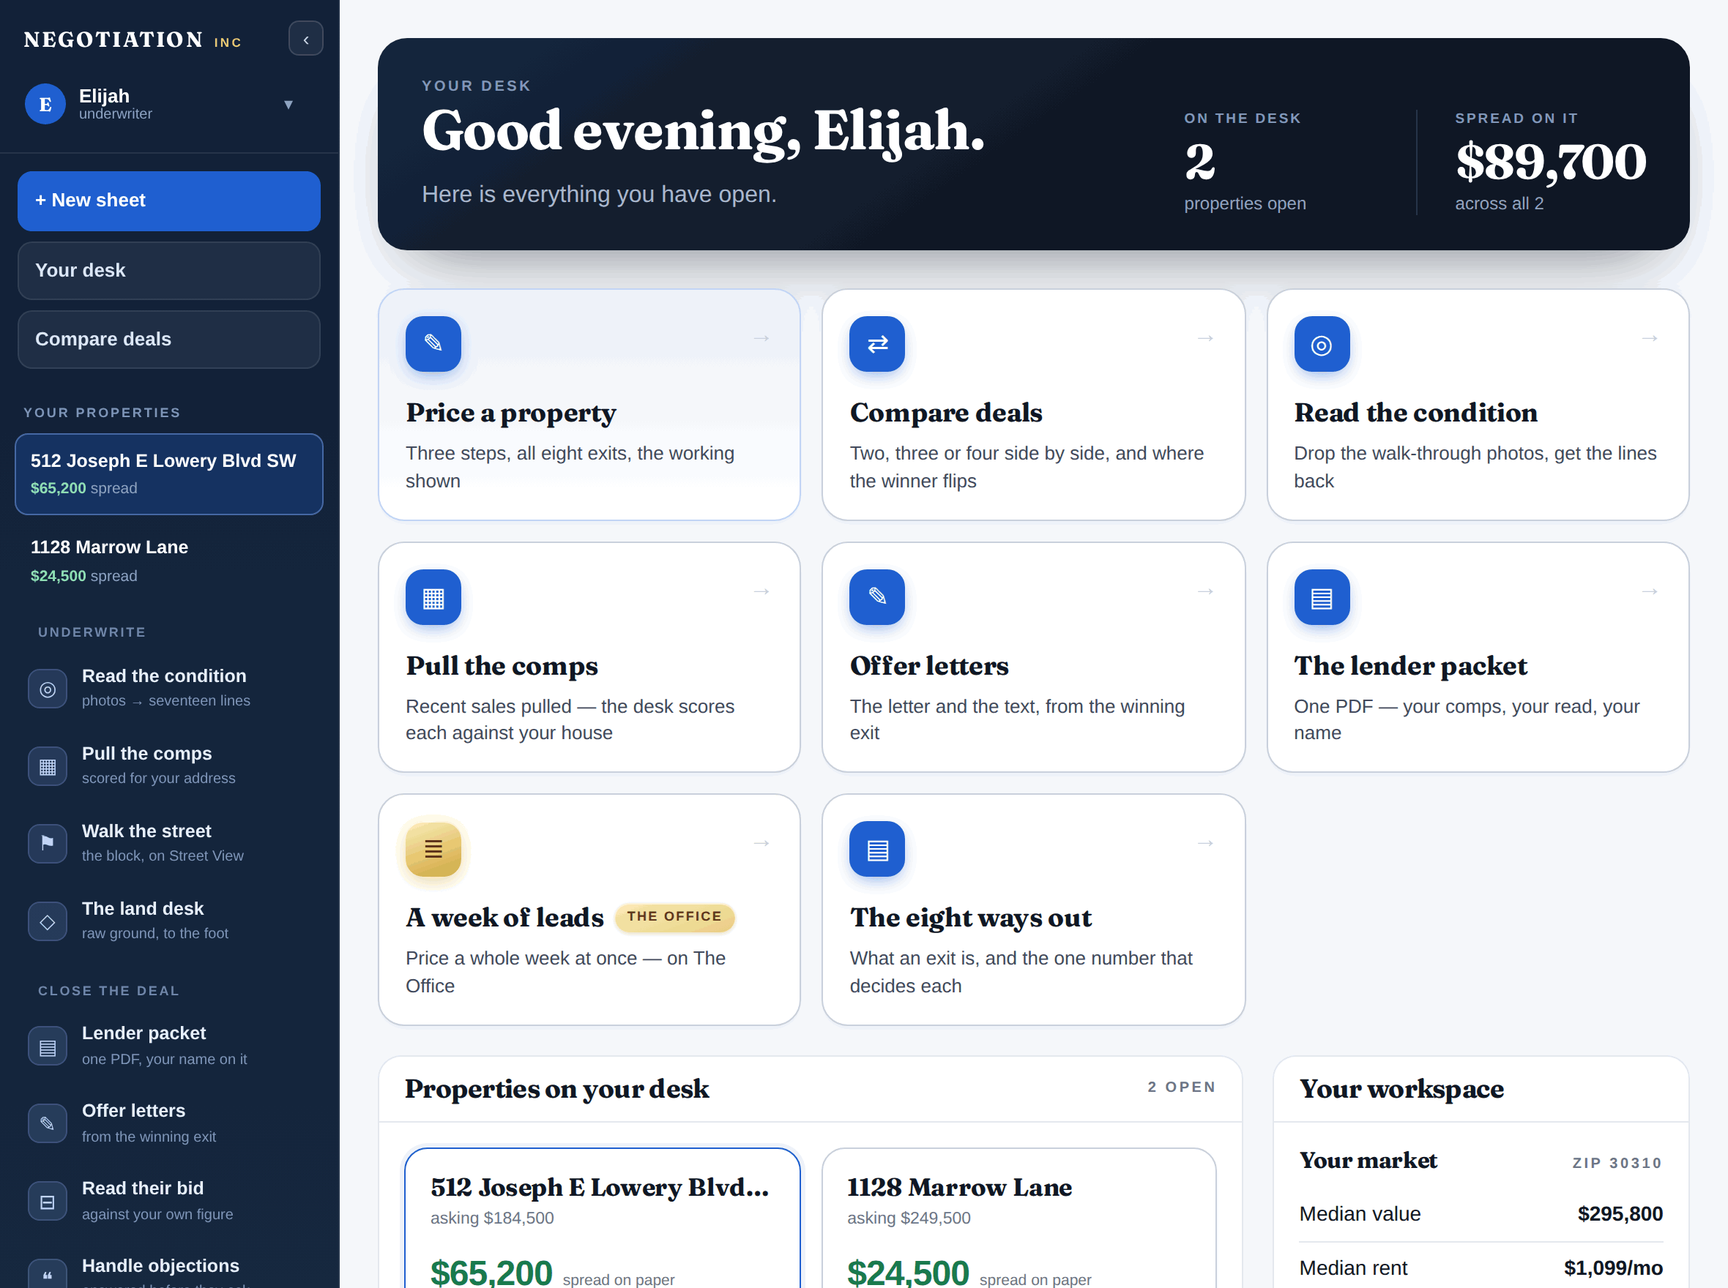
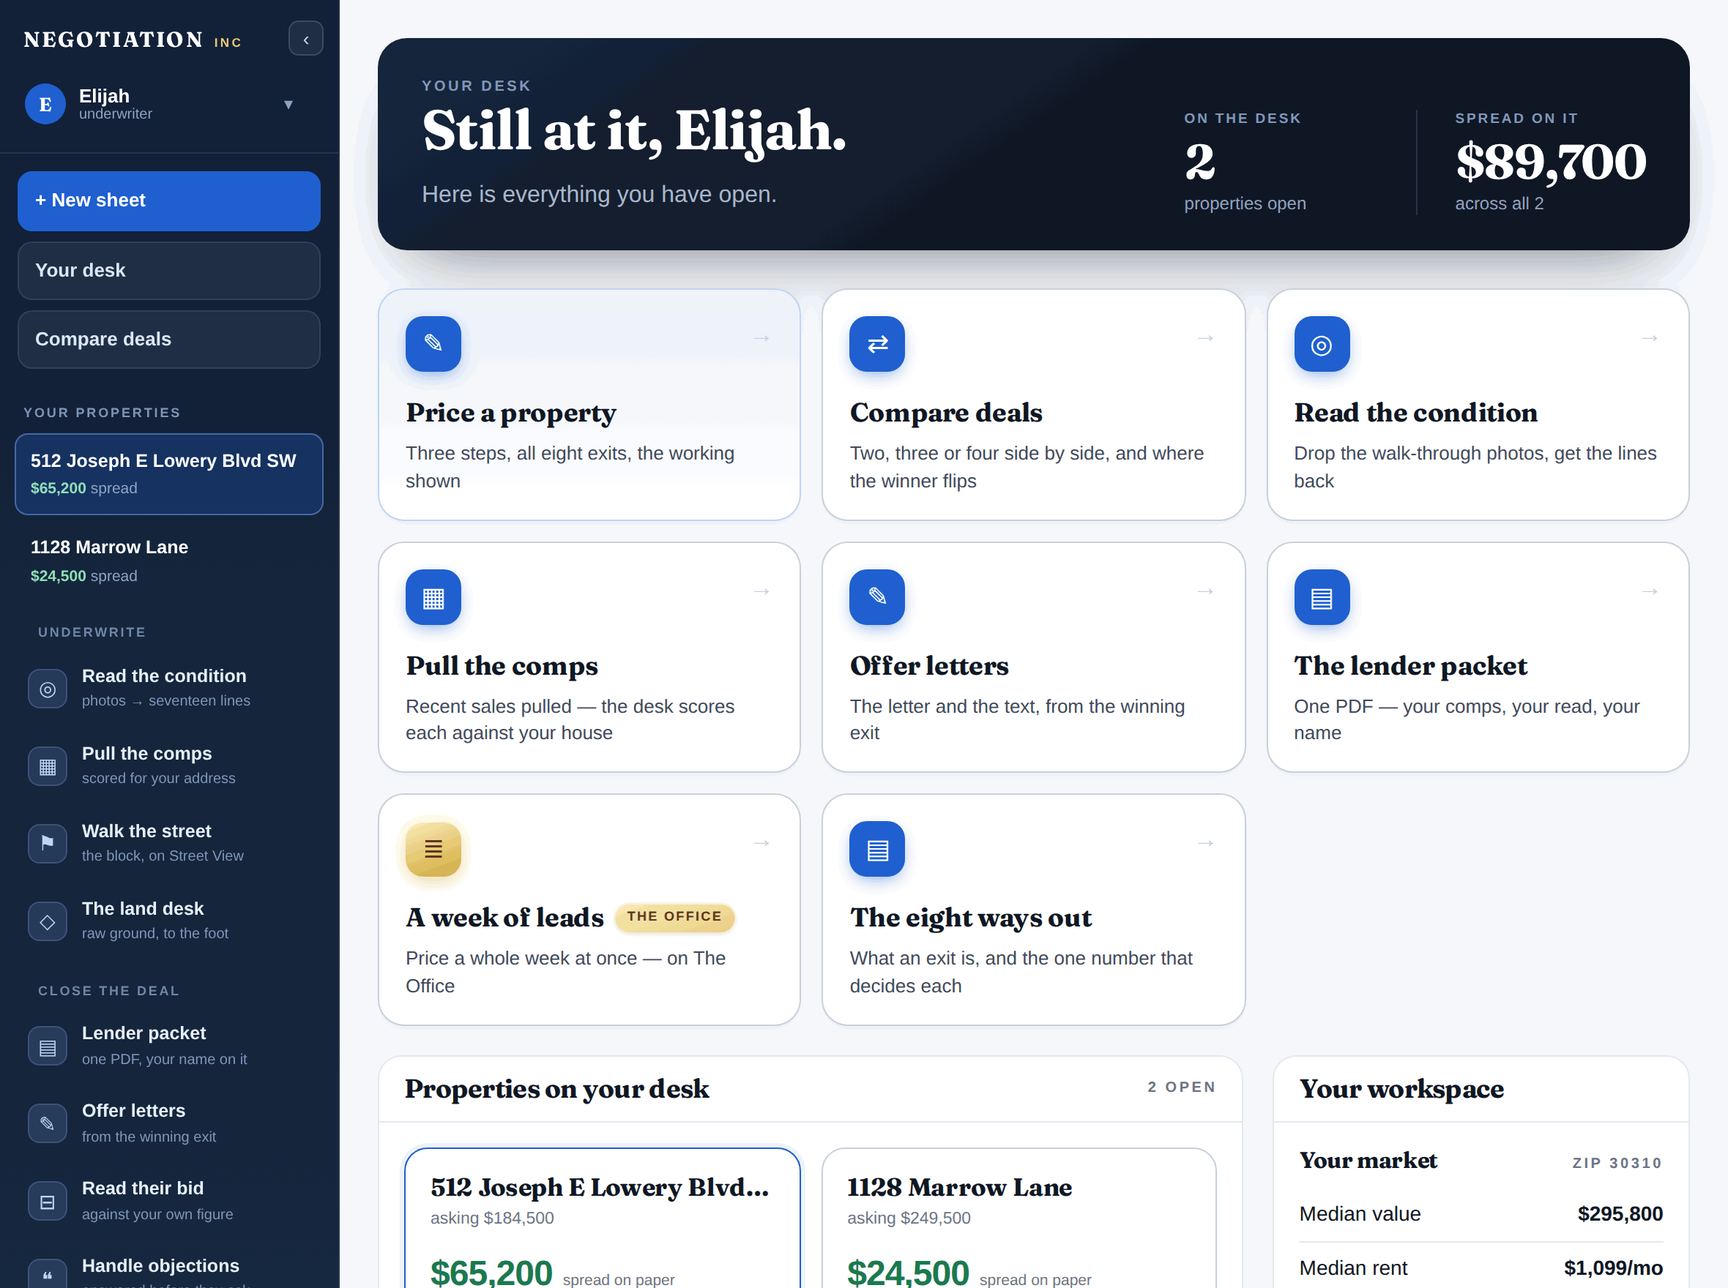
batch 78: three bars become one instrument
The Claude Design pass on the Daily Street's offer step, implemented. The
screen told the same fact three times in three grammars — a stacked
composition bar, a headline range, and a slider track with four unlabelled
colour zones and no key — and the sentence carrying the entire lesson ("you
have not checked what it needs") was set as the smallest text in the group.

ONE AXIS NOW, where every mark is a price and every distance is money. The
band is what the sales say the house is worth TO YOU; its WIDTH is the repair
bill you have not checked; and the button that narrows it sits inside the
readout, so the lesson is the control rather than a caveat. Both band edges
name the sale that made them — the two comps disagree, and now you can see
which said what. The walk-away line is not drawn at all until a look has been
spent, because until then you do not have one.

NOT ONE FIGURE CHANGED. Every number the instrument draws is the same
arithmetic the three bars ran — the comp spread, the repair band, the
borrow-adjusted break-even. This is a presentation replacement, and the
engine was not touched.

THE COLOUR LAW REACHES THE BAR. The keep bar is green only when the figure
has been EARNED — repairs walked and the outcome positive — red only when the
whole band is a loss, and hatched neutral while it is still a range, because
a number you have not checked is not money that pays and must not wear the
colour of one.
[…]

Changed region(s): [[0.2475, 0.0625, 0.5877, 0.125]]

diff --git a/daily-street.html b/daily-street.html
@@ -294,6 +294,116 @@
   .sw{width:13px;height:13px;border:1px solid var(--carbon);flex:none}
   .sw.pay{background:var(--carbon)} .sw.keep{background:var(--green)} .sw.over{background:var(--red)}
   .sw.fix{background:repeating-linear-gradient(45deg,var(--rule) 0 4px,var(--stock-3) 4px 8px)}
+  /* ══ THE RANGE INSTRUMENT ════════════════════════════════════════════════
+     Claude Design's pass on this screen, implemented. The offer step told the
+     same fact three times in three grammars — a stacked composition bar, a
+     headline range, and a slider track with four unlabelled colour zones and
+     no key — and the sentence that carried the whole lesson ("you have not
+     checked what it needs") was set as the smallest text in the group.
+
+     One axis now. Every mark on it is a price and every distance is money:
+     the band is what the sales say the house is worth TO YOU, its WIDTH is
+     the repair bill you have not checked, and the button that narrows it
+     sits inside the readout — so the lesson is the control rather than a
+     caveat. The walk-away line is not drawn until a look has been spent,
+     because before that you do not have one.
+
+     The native range input is still the input: it is kept, transparent, and
+     laid over the axis at full tap height, so drag, touch, keyboard and
+     every harness that drives #pricer keep working exactly as before. What
+     the player SEES is the marker drawn under it. */
+  .inst{margin-top:14px;border:1px solid var(--carbon);background:var(--stock)}
+  .inst-h{display:flex;align-items:center;justify-content:space-between;gap:10px;
+    padding:9px 12px;border-bottom:1px solid var(--rule);background:var(--stock-2)}
+  .inst-h .ik{font-family:var(--mono);font-size:10px;letter-spacing:.14em;
+    text-transform:uppercase;color:var(--carbon-soft)}
+  .istamp{font-family:var(--mono);font-size:9.5px;letter-spacing:.1em;text-transform:uppercase;
+    border:1px solid var(--gold);color:var(--gold);padding:3px 7px;white-space:nowrap}
+  .istamp.sure{border-color:var(--green);color:var(--green)}
+  .iwalked{padding:9px 12px;border-bottom:1px solid var(--rule);font-size:13.5px;
+    line-height:1.5;color:var(--carbon-soft);background:var(--stock-2)}
+  .iwalked b{color:var(--carbon)}
+  /* the axis. 78px of headroom for the two tick labels, 66 below for the
+     offer marker and its keep bar — the numbers need the air or they stack */
+  .axis{position:relative;height:196px;margin:0;padding:0 14px}
+  .ax-line{position:absolute;left:14px;right:14px;top:78px;height:2px;background:var(--carbon)}
+  .ax-end{position:absolute;top:62px;font-family:var(--mono);font-size:10px;color:var(--carbon-faint)}
+  .ax-end.lo{left:14px} .ax-end.hi{right:14px}
+  .i-band{position:absolute;top:68px;height:22px;border:1px solid rgba(34,32,28,.5);
+    background:repeating-linear-gradient(45deg,rgba(34,32,28,.26) 0 4px,rgba(34,32,28,0) 4px 8px);
+    transition:left .22s cubic-bezier(.22,.9,.26,1),width .22s cubic-bezier(.22,.9,.26,1)}
+  .i-band.sure{background:repeating-linear-gradient(45deg,rgba(34,32,28,.16) 0 4px,rgba(34,32,28,0) 4px 8px)}
+  .i-edge{position:absolute;top:92px;transform:translateX(-50%);text-align:center;white-space:nowrap;
+    transition:left .22s cubic-bezier(.22,.9,.26,1)}
+  /* a band can get NARROW — that is the whole point of spending a look — and
+     two centred captions under two close edges land on top of each other.
+     When they are within a fifth of the axis they splay outward instead: the
+     low one hangs off its edge to the left, the high one to the right, each
+     still pointing at the mark it belongs to. */
+  .i-edge.out-lo{transform:translateX(-100%);text-align:right;padding-right:5px}
+  .i-edge.out-hi{transform:translateX(0);text-align:left;padding-left:5px}
+  .i-edge b{display:block;font-family:var(--mono);font-size:12.5px;color:var(--carbon)}
+  .i-edge span{display:block;font-size:10.5px;color:var(--carbon-faint)}
+  .i-tick{position:absolute;top:44px;height:38px;width:2px;background:var(--carbon-soft);
+    transform:translateX(-50%)}
+  .i-tick b{position:absolute;bottom:40px;left:50%;transform:translateX(-50%);white-space:nowrap;
+    font-family:var(--mono);font-size:10.5px;letter-spacing:.08em;text-transform:uppercase;color:var(--carbon)}
+  .i-tick.walk{background:var(--carbon);top:34px;height:48px}
+  .i-tick.walk b{bottom:50px}
+  /* what you keep, drawn as the distance it is: from your offer to the near
+     edge of the band. Green only once the band is a figure you checked. */
+  /* ── THE OFFER LANE ──────────────────────────────────────────────────
+     Everything the hand controls lives BELOW the band's own labels, in its
+     own horizontal lane. The first build stacked the marker, the keep bar
+     and the price on top of the edge captions and they collided at every
+     position the player actually cares about — which is most of them. The
+     marker keeps a faint leader up to the axis so the connection still
+     reads without anything sitting on anything. */
+  .i-keep{position:absolute;top:140px;height:10px;
+    background:repeating-linear-gradient(45deg,rgba(34,32,28,.3) 0 4px,rgba(34,32,28,.06) 4px 8px);
+    border:1px solid rgba(34,32,28,.35);
+    transition:left .1s linear,width .1s linear}
+  .i-keep.sure{background:var(--green);border-color:var(--green)}
+  .i-keep.neg{background:var(--red);border-color:var(--red)}
+  .i-mark{position:absolute;top:90px;width:1px;height:76px;
+    background:linear-gradient(180deg,rgba(34,32,28,.28) 0 46px,var(--carbon) 46px 100%);
+    transform:translateX(-50%);pointer-events:none}
+  .i-mark i{position:absolute;top:46px;left:50%;transform:translateX(-50%);
+    width:18px;height:26px;border:1px solid var(--carbon);
+    background:linear-gradient(180deg,var(--stock) 0 55%,var(--stock-3) 55% 100%);
+    box-shadow:0 1px 0 rgba(0,0,0,.25)}
+  .i-you{position:absolute;top:170px;transform:translateX(-50%);white-space:nowrap;
+    font-family:var(--mono);font-size:12.5px;font-weight:700;color:var(--carbon);pointer-events:none}
+  /* the real control, invisible and on top: full width of the axis, 44px of
+     thumb so a thumb can find it, and every native behaviour intact */
+  .axis input[type=range]{-webkit-appearance:none;appearance:none;position:absolute;
+    left:14px;right:14px;width:calc(100% - 28px);top:126px;height:48px;margin:0;
+    background:none;opacity:0;cursor:grab;z-index:3}
+  .axis input[type=range]:active{cursor:grabbing}
+  .axis input[type=range]::-webkit-slider-thumb{-webkit-appearance:none;appearance:none;
+    width:34px;height:44px}
+  .axis input[type=range]::-moz-range-thumb{width:34px;height:44px;border:0;border-radius:0}
+  /* focus has to be visible even though the control is not — the ring goes on
+     the axis, because that is the thing the keyboard is moving */
+  .axis:has(input[type=range]:focus-visible){outline:2px solid var(--carbon);outline-offset:3px}
+  .readout{border-top:1px solid var(--rule);padding:13px 14px 14px;text-align:center;
+    background:var(--stock-2)}
+  .lookbtn{font:inherit;font-family:var(--mono);font-size:13px;letter-spacing:.08em;
+    text-transform:uppercase;width:100%;min-height:46px;margin-top:11px;cursor:pointer;
+    background:var(--stock);border:1px dashed var(--carbon);color:var(--carbon);
+    display:flex;align-items:center;justify-content:center;gap:10px}
+  .lookbtn:hover{background:var(--stock-3)}
+  .lookbtn[disabled]{opacity:.5;cursor:default}
+  .lookbtn em{font-style:normal;border:1px solid var(--gold);color:var(--gold);
+    padding:2px 6px;font-size:10.5px}
+  @media(max-width:520px){
+    /* the head wrapped to three lines beside the stamp and squeezed both.
+       Stacked, each gets its own line and neither has to hyphenate. */
+    .inst-h{flex-direction:column;align-items:flex-start;gap:7px}
+    .axis{height:204px}
+    .i-edge b{font-size:11.5px} .i-edge span{font-size:9.5px}
+    .i-tick b{font-size:9.5px}
+  }
   .keepbig{text-align:center;margin-top:14px}
   .keepbig .k{font-family:var(--mono);font-size:10px;letter-spacing:.16em;text-transform:uppercase;color:var(--carbon-faint)}
   .keepbig .v{font-family:var(--mono);font-size:36px;font-variant-numeric:tabular-nums;line-height:1.05;color:var(--green)}
@@ -1134,7 +1244,7 @@ function dealParts(i){
    and the asking price, which is printed on the card. Nothing consults the
    truth. A heat scale that knew the answer would be the answer. */
 function paintHeat(){
-  const el = document.getElementById('heat'); if (!el) return;
+  const ax = document.getElementById('i-axis'); if (!ax) return;
   const i = state.at, c = board.cards[i], r = read(i), p = run.plan.rounds[run.round];
   const rg = sliderRange(i), span = rg[1] - rg[0];
   const pos = v => Math.max(0, Math.min(100, ((v - rg[0]) / span) * 100));
@@ -1156,28 +1266,80 @@ function paintHeat(){
      break-even arrives earlier. Solved rather than approximated. */
   const be = wMid <= run.capital ? wMid
            : (wMid + run.capital * p.financeRate) / (1 + p.financeRate);
-  const a = Math.max(0, pos(wLo) - 6), b = pos(be), cEnd = Math.min(100, pos(wHi) + 6);
-  el.style.setProperty('--h1', 'var(--green-bg)');
-  el.style.setProperty('--h2', 'rgba(154,107,31,.30)');
-  el.style.setProperty('--h3', 'rgba(179,55,44,.34)');
-  el.style.setProperty('--gA', a.toFixed(1) + '%');
-  el.style.setProperty('--gB', b.toFixed(1) + '%');
-  el.style.setProperty('--gC', cEnd.toFixed(1) + '%');
-  const band = document.getElementById('hband');
-  if (band){ const l = pos(wLo), w = Math.max(1.2, pos(wHi) - l);
-    band.style.left = l + '%'; band.style.width = w + '%';
-    /* a look does not narrow the comps, it removes the repair guess — so the
-       band stays and the LINE inside it becomes something you can trust */
-    band.style.opacity = r.sure ? '.45' : '1'; }
-  const line = document.getElementById('hline');
-  if (line){ line.style.left = 'calc(' + b.toFixed(1) + '% - 1px)';
-    line.style.display = r.sure ? 'block' : 'none'; }
-  const at = document.getElementById('haskt'), al = document.getElementById('haskl');
-  if (at) at.style.left = pos(c.asking) + '%';
-  if (al) al.style.left = pos(c.asking) + '%';
-  /* the floating price label under the thumb is gone: it collided with the
-     handle at every position and it was printing, one line lower and larger,
-     the number "your offer" already prints. */
+  /* ── AND NOW IT IS ONE INSTRUMENT ─────────────────────────────────────
+     Every figure below is the same arithmetic the three old bars ran; what
+     changed is that it is drawn once, on one axis, where a distance is
+     money. `be` (the borrow-adjusted break-even) is still the walk-away, and
+     it is still only drawn when a look has been spent. */
+  /* the break-even's position on the axis — the old code computed this as
+     part of a three-stop gradient that no longer exists */
+  const b = pos(be);
+  const pts0 = Math.round(Math.max(0, state.price - run.capital) * p.financeRate);
+  const K = v => '$' + Math.round(v/1000) + 'K';
+  const put = (id, fn) => { const e = document.getElementById(id); if (e) fn(e); };
+
+  put('i-axlo', e => e.textContent = K(rg[0]));
+  put('i-axhi', e => e.textContent = K(rg[1]));
+
+  put('i-stamp', e => {
+    e.textContent = board.looks[i].comps.length + ' sales \u00b7 '
+      + (r.sure ? 'repairs walked' : 'repairs unchecked');
+    e.className = 'istamp' + (r.sure ? ' sure' : '');
+  });
+  put('i-walked', e => {
+    const L = board.looks[i];
+    e.hidden = !r.sure;
+    if (r.sure) e.innerHTML = 'Walked it: <b>' + M(L.walkthrough[0]) + '\u2013' + M(L.walkthrough[1])
+      + '</b>, call it <b>\u2212' + M(r.repairs) + '</b>';
+  });
+
+  const lo = pos(wLo), hi = pos(wHi);
+  put('i-band', e => { e.style.left = lo + '%'; e.style.width = Math.max(1.2, hi - lo) + '%';
+    e.className = 'i-band' + (r.sure ? ' sure' : ''); });
+  /* NAME THE SALE THAT MADE THE EDGE. The band's two ends are not abstract —
+     each is one real comp's price-per-foot scaled to this house, and saying
+     which one turns "a range" into "these two sales disagree, and here is
+     which said what". Both edges reading "repairs off" told the player
+     nothing twice. */
+  const cmp = board.looks[i].comps;
+  const short = a => String(a || '').replace(/^\d+\s+/, '').split(/\s+/)[0];
+  const byPpsf = cmp.map((x, k) => ({ n: short(x.address), v: r.each[k] }))
+                    .sort((x, y) => x.v - y.v);
+  const loName = byPpsf.length ? byPpsf[0].n : '';
+  const hiName = byPpsf.length ? byPpsf[byPpsf.length - 1].n : '';
+  const tight = (hi - lo) < 20;
+  put('i-elo', e => { e.style.left = lo + '%';
+    e.className = 'i-edge' + (tight ? ' out-lo' : '');
+    e.innerHTML = '<b>' + M(Math.round(wLo/100)*100) + '</b><span>' + esc(loName) + '</span>'; });
+  put('i-ehi', e => { e.style.left = hi + '%';
+    e.className = 'i-edge' + (tight ? ' out-hi' : '');
+    e.innerHTML = '<b>' + M(Math.round(wHi/100)*100) + '</b><span>' + esc(hiName) + '</span>'; });
+
+  put('i-ask', e => { e.style.left = pos(c.asking) + '%';
+    e.querySelector('b').textContent = 'asking ' + M(c.asking); });
+  put('i-walk', e => { e.hidden = !r.sure; e.style.left = b + '%';
+    if (r.sure) e.querySelector('b').textContent = 'walk-away ' + M(Math.round(be/100)*100); });
+
+  /* the keep bar IS the distance from your offer to the near edge of what it
+     is worth — the same subtraction the readout prints, drawn to scale */
+  const you = pos(state.price);
+  put('i-keep', e => {
+    /* the bar runs from your offer to the line you are measured against —
+       the walk-away once you have looked, the near edge of the band until
+       then. Its COLOUR obeys the same law the readout does: green only when
+       the figure has been earned (repairs walked AND the outcome positive),
+       red only when the whole band is a loss, and hatched neutral while it
+       is still a range — because a number you have not checked is not money
+       that pays and must not wear the colour of one. */
+    const edge = r.sure ? b : lo;
+    const l = Math.min(you, edge), w = Math.abs(edge - you);
+    e.style.left = l + '%'; e.style.width = Math.max(0.4, w) + '%';
+    const allLoss = (wHi - state.price - pts0) < 0;
+    e.className = 'i-keep' + (allLoss ? ' neg' : (r.sure && you <= edge) ? ' sure' : '');
+  });
+  put('i-mark', e => e.style.left = you + '%');
+  put('i-you', e => { e.style.left = you + '%'; e.textContent = M(state.price); });
+
   const borrowed = Math.max(0, state.price - run.capital);
   const pts = Math.round(borrowed * p.financeRate);
   return { sure:r.sure, keepLo: wLo - state.price - pts, keepHi: wHi - state.price - pts };
@@ -1205,15 +1367,7 @@ function setKeep(el, target){
 }
 
 function paintDeal(){
-  const d = dealParts(state.at), pctOf = v => Math.max(0,(v/d.total)*100);
-  const bar = document.getElementById('dealbar');
-  if (bar){
-    const pay = Math.min(100, pctOf(d.pay));
-    bar.innerHTML = d.keep >= 0
-      ? '<i class="pay" style="width:'+pay+'%"></i><i class="keep" style="width:'+Math.min(100-pay,pctOf(d.keep))+'%"></i>' +
-        '<i class="fix" style="width:'+Math.max(0,100-pay-pctOf(d.keep))+'%"></i>'
-      : '<i class="pay" style="width:'+Math.max(0,100-Math.min(40,pctOf(-d.keep)))+'%"></i><i class="over" style="width:'+Math.min(40,pctOf(-d.keep))+'%"></i>';
-  }
+  const d = dealParts(state.at);
   const hb = paintHeat();
   const kv=document.getElementById('keepv');
   if (kv){
@@ -1881,6 +2035,17 @@ function browseHTML(){
   '</div>';
 }
 
+/* THE LESSON IS THE CONTROL. The one act that narrows the band is offered
+   inside the readout the band is confusing, not three screens away in an
+   accordion — and once it is spent the button is replaced by what it bought. */
+function lookBtnHTML(){
+  const i = state.at, s = state.seen[i];
+  if (s.walk) return '';
+  const out = state.looksLeft <= 0;
+  return '<button class="lookbtn" type="button" ' + (out ? 'disabled ' : '') +
+    'onclick="doLook(\'walk\')">Check what it needs' +
+    '<em>' + (out ? 'no looks left' : '\u22121 look') + '</em></button>';
+}
 function offerHTML(){
   const i=state.at, c=board.cards[i], range=sliderRange(i), n=c.interest;
   const hint = n===0 ? ['','Nobody else has offered here. Only the seller is in your way.']
@@ -1888,14 +2053,28 @@ function offerHTML(){
     : ['bad', n+' other buyers are already in. This one goes to whoever leaves the least on the table.'];
   return '<div class="house"><div class="hname">'+esc(c.address)+'</div>' +
     '<div class="hmeta">Your one offer. Sealed until the street closes.</div>' +
-    '<div class="deal"><div class="dealbar" id="dealbar"></div>' +
-      '<div class="dealkey"><span><i class="sw pay"></i>you pay</span><span><i class="sw keep"></i>you keep</span><span><i class="sw fix"></i>repairs</span></div>' +
-      '<div class="keepbig"><div class="k">You keep</div><div class="v" id="keepv"></div><div class="n" id="keepn"></div></div>' +
-      '<div class="heat" id="heat"><div class="band" id="hband"></div><div class="line" id="hline"></div>' +
-        '<div class="askt" id="haskt"></div><div class="askl" id="haskl">asking</div></div>' +
-      '<input type="range" id="pricer" min="'+range[0]+'" max="'+range[1]+'" step="500" value="'+state.price+'" '+
-        'aria-label="your offer" oninput="setPrice(this.value)">' +
-      '<div class="offerrow"><span>your offer <span id="offerv"></span></span><span>asking '+M(c.asking)+'</span></div>' +
+    '<div class="deal"><div class="inst">' +
+      '<div class="inst-h"><span class="ik">What it is worth to you</span>' +
+        '<span class="istamp" id="i-stamp"></span></div>' +
+      '<div class="iwalked" id="i-walked" hidden></div>' +
+      '<div class="axis" id="i-axis">' +
+        '<div class="ax-line"></div>' +
+        '<div class="ax-end lo" id="i-axlo"></div><div class="ax-end hi" id="i-axhi"></div>' +
+        '<div class="i-band" id="i-band"></div>' +
+        '<div class="i-edge" id="i-elo"></div><div class="i-edge" id="i-ehi"></div>' +
+        '<div class="i-tick" id="i-ask"><b></b></div>' +
+        '<div class="i-tick walk" id="i-walk" hidden><b></b></div>' +
+        '<div class="i-keep" id="i-keep"></div>' +
+        '<div class="i-mark" id="i-mark"><i></i></div>' +
+        '<div class="i-you" id="i-you"></div>' +
+        '<input type="range" id="pricer" min="'+range[0]+'" max="'+range[1]+'" step="500" value="'+state.price+'" '+
+          'aria-label="your offer" oninput="setPrice(this.value)">' +
+      '</div>' +
+      '<div class="readout"><div class="keepbig"><div class="k">If you are right, you keep</div>' +
+        '<div class="v" id="keepv"></div><div class="n" id="keepn"></div></div>' +
+        lookBtnHTML() + '</div>' +
+      '</div>' +
+      '<div class="offerrow" style="margin-top:11px"><span>your offer <span id="offerv"></span></span><span>asking '+M(c.asking)+'</span></div>' +
       '<div class="rival '+hint[0]+'">'+hint[1]+'</div>' +
       '<button class="btn go" onclick="sealOffer()">Seal this offer</button>' +
       '<button class="btn ghost" onclick="backToBrowse()">Back</button></div></div>';
